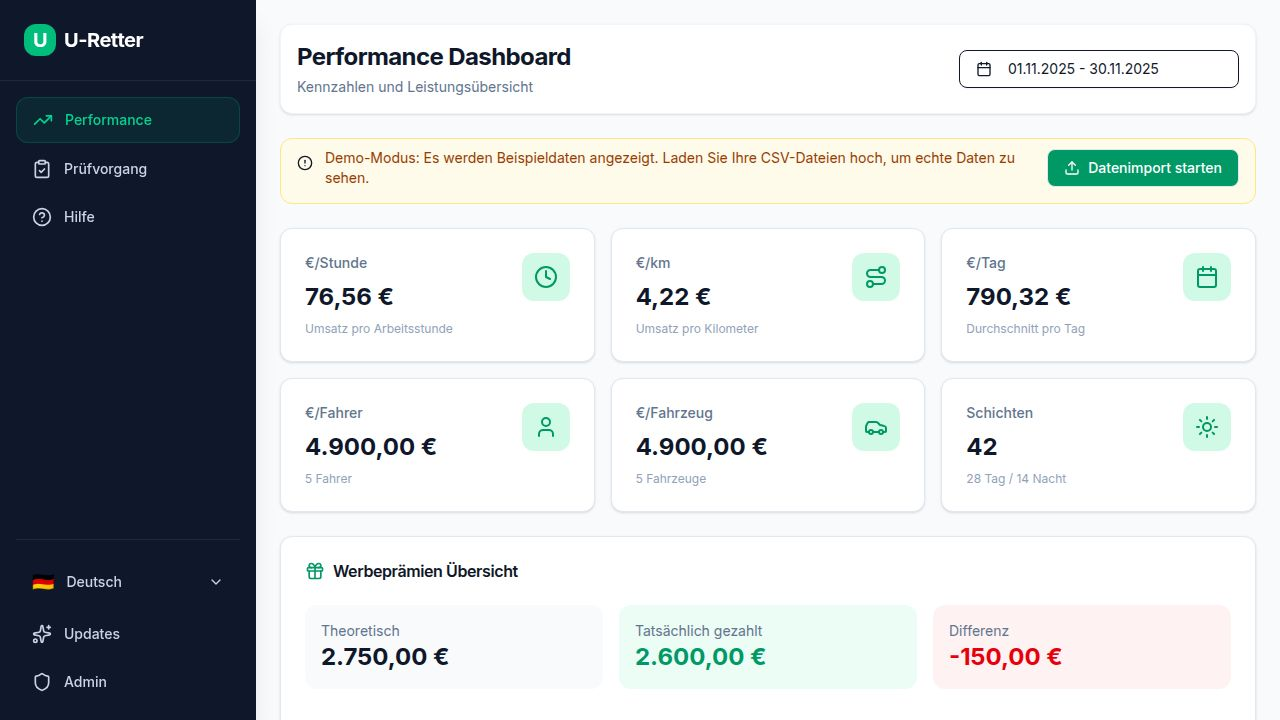
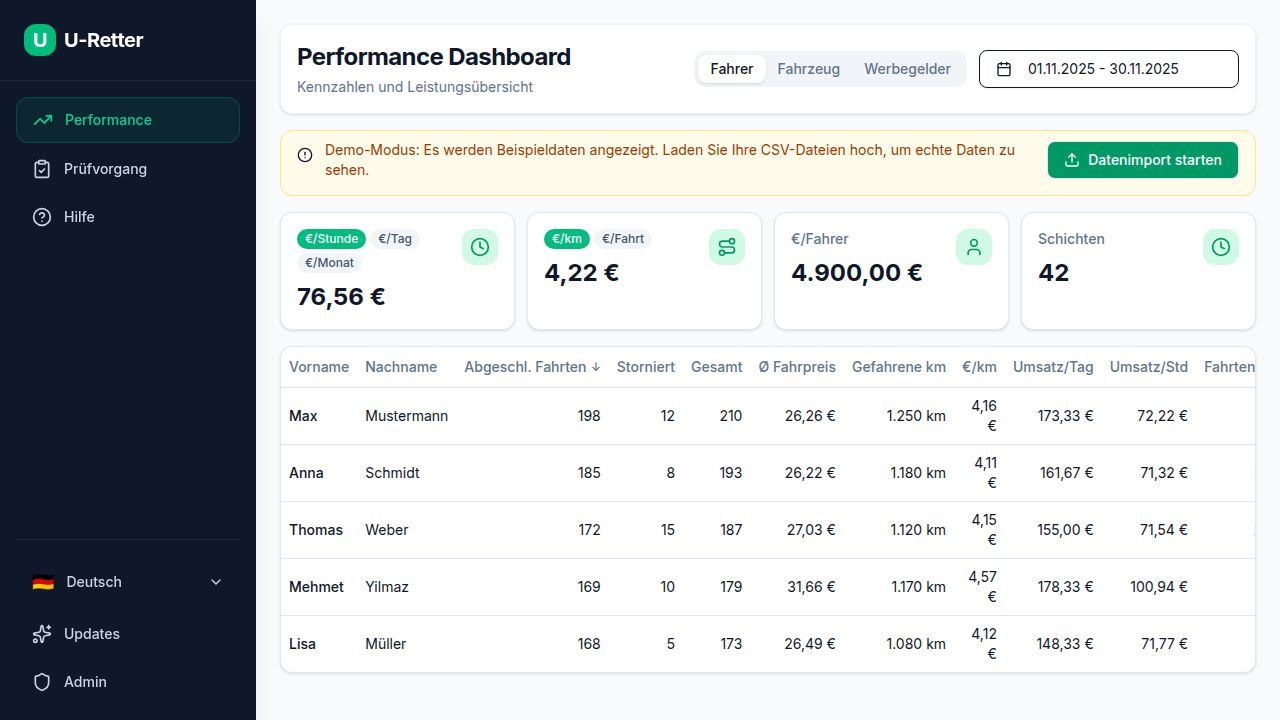
Improve tab functionality to persist user selections across views
Consolidate separate Tabs components into a single wrapper in `PerformancePage.tsx` to ensure state synchronization and proper rendering of tab content.

Replit-Commit-Author: Agent
Replit-Commit-Session-Id: eda07c47-fa0f-4dfd-ad98-edfbeb6350f6
Replit-Commit-Checkpoint-Type: full_checkpoint
Replit-Commit-Event-Id: d90b7a7b-30ae-424a-897f-5021222d3f01
Replit-Commit-Screenshot-Url: https://storage.googleapis.com/screenshot-production-us-central1/74f01f64-59c9-4fe7-973c-309debf47daa/eda07c47-fa0f-4dfd-ad98-edfbeb6350f6/kHPyagp
Replit-Helium-Checkpoint-Created: true

diff --git a/client/src/pages/performance.tsx b/client/src/pages/performance.tsx
@@ -844,7 +844,7 @@ export default function PerformancePage() {
 
   return (
     <DashboardLayout>
-      <div className="max-w-[1920px] mx-auto space-y-4 pb-20">
+      <Tabs value={activeTab} onValueChange={setActiveTab} className="max-w-[1920px] mx-auto space-y-4 pb-20">
         <div className="flex flex-col lg:flex-row justify-between items-start lg:items-center gap-4 bg-white p-4 rounded-xl border border-slate-100 shadow-sm">
           <div>
             <h1 className="text-2xl font-bold tracking-tight text-slate-900" data-testid="performance-title">
@@ -855,13 +855,11 @@ export default function PerformancePage() {
             </p>
           </div>
           <div className="flex items-center gap-3">
-            <Tabs value={activeTab} onValueChange={setActiveTab}>
-              <TabsList>
-                <TabsTrigger value="drivers" data-testid="tab-drivers">Fahrer</TabsTrigger>
-                <TabsTrigger value="vehicles" data-testid="tab-vehicles">Fahrzeug</TabsTrigger>
-                <TabsTrigger value="promo" data-testid="tab-promo">Werbegelder</TabsTrigger>
-              </TabsList>
-            </Tabs>
+            <TabsList>
+              <TabsTrigger value="drivers" data-testid="tab-drivers">Fahrer</TabsTrigger>
+              <TabsTrigger value="vehicles" data-testid="tab-vehicles">Fahrzeug</TabsTrigger>
+              <TabsTrigger value="promo" data-testid="tab-promo">Werbegelder</TabsTrigger>
+            </TabsList>
             <DatePickerWithRange 
               date={dateRange} 
               onDateChange={setDateRange} 
@@ -892,38 +890,36 @@ export default function PerformancePage() {
           <VorgangsIdDisplay vorgangsId={sessionData.vorgangsId} />
         )}
 
-        <Tabs value={activeTab} onValueChange={setActiveTab}>
-          <TabsContent value="drivers" className="mt-0">
-            <DriversTab 
-              data={driversData} 
-              isLoading={driversLoading} 
-              isDemo={isDemo}
-              timeMetric={timeMetric}
-              setTimeMetric={setTimeMetric}
-              distanceMetric={distanceMetric}
-              setDistanceMetric={setDistanceMetric}
-            />
-          </TabsContent>
-          <TabsContent value="vehicles" className="mt-0">
-            <VehiclesTab 
-              data={vehiclesData} 
-              isLoading={vehiclesLoading} 
-              isDemo={isDemo}
-              timeMetric={timeMetric}
-              setTimeMetric={setTimeMetric}
-              distanceMetric={distanceMetric}
-              setDistanceMetric={setDistanceMetric}
-            />
-          </TabsContent>
-          <TabsContent value="promo" className="mt-0">
-            <PromoTab 
-              data={promoData} 
-              isLoading={promoLoading} 
-              isDemo={isDemo} 
-            />
-          </TabsContent>
-        </Tabs>
-      </div>
+        <TabsContent value="drivers" className="mt-0">
+          <DriversTab 
+            data={driversData} 
+            isLoading={driversLoading} 
+            isDemo={isDemo}
+            timeMetric={timeMetric}
+            setTimeMetric={setTimeMetric}
+            distanceMetric={distanceMetric}
+            setDistanceMetric={setDistanceMetric}
+          />
+        </TabsContent>
+        <TabsContent value="vehicles" className="mt-0">
+          <VehiclesTab 
+            data={vehiclesData} 
+            isLoading={vehiclesLoading} 
+            isDemo={isDemo}
+            timeMetric={timeMetric}
+            setTimeMetric={setTimeMetric}
+            distanceMetric={distanceMetric}
+            setDistanceMetric={setDistanceMetric}
+          />
+        </TabsContent>
+        <TabsContent value="promo" className="mt-0">
+          <PromoTab 
+            data={promoData} 
+            isLoading={promoLoading} 
+            isDemo={isDemo} 
+          />
+        </TabsContent>
+      </Tabs>
     </DashboardLayout>
   );
 }
